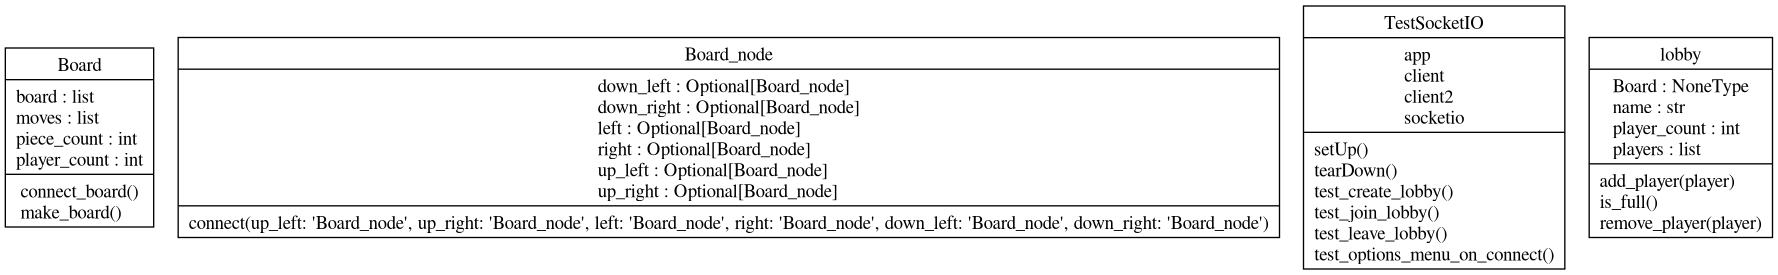
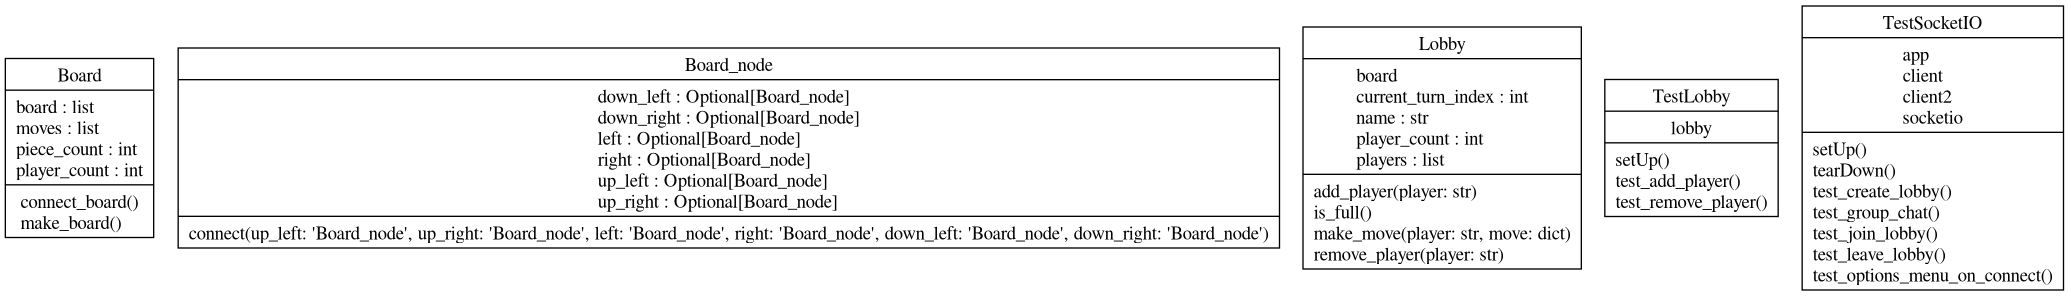
small file changes

Changed region(s): [[0.0, 0.0, 1.0, 0.9891]]

diff --git a/server/board.py b/server/board.py
@@ -1,17 +1,102 @@
-from abc import ABC, abstractmethod
+from math import floor, ceil
 
-#Interface for Board
-class Board(ABC):
-    @abstractmethod
-    def create_board(self, players_amount: int):
-        pass
+STANDARD_BOARD = [
+    1,
+    2,
+    3,
+    4,
+    13,
+    12,
+    11,
+    10,
+    9,
+    10,
+    11,
+    12,
+    13,
+    4,
+    3,
+    2,
+    1,
+]
 
-    @abstractmethod
-    def make_move(self, move: dict):
-        pass
+def mid_odd(number: int) -> int:
+    return floor(number/2)
 
-    @abstractmethod
-    def check_win(self):
-        pass
+def mid_left_even(number: int) -> int:
+    return floor(number/2)
+
+def mid_right_even(number: int) -> int:
+    return floor(number/2) + 1
+
+class Board_node():
+    def __init__(self):
+        self.up_left: Board_node = None
+        self.up_right: Board_node = None
+        self.left: Board_node = None
+        self.right: Board_node = None
+        self.down_left: Board_node = None
+        self.down_right: Board_node = None
+        return
+    
+    def connect(self, up_left: 'Board_node' = None,up_right: 'Board_node' = None,left: 'Board_node' = None,right: 'Board_node' = None,down_left: 'Board_node' = None,down_right: 'Board_node' = None):
+        if(up_left is not None):
+            self.up_left = up_left
+            self.up_left.down_right = self
+        if(up_right is not None):
+            self.up_right = up_right
+            self.up_right.down_left = self
+        if(left is not None):
+            self.left = left
+            self.left.right = self
+        if(right is not None):
+            self.right = right
+            self.right.left = right
+        if(down_left is not None):
+            self.down_left = down_left
+            self.down_left.up_right = self
+        if(down_right is not None):
+            self.down_right = down_right
+            self.down_right.up_left = self
+
+    def __str__(self):
+        return 'node'
+    
+    def __repr__(self):
+        return "####"
 
 
+
+class Board():
+    def __init__(self, player_count: int):
+        self.player_count = player_count
+        self.moves = []
+        if(self.player_count == 2):
+            self.piece_count = 15
+        elif(self.player_count > 2 and self.player_count <= 6):
+            self.piece_count = 10
+        return
+    
+    def make_board(self):
+        self.board = []
+        for row_count in STANDARD_BOARD:
+            place = 13 - floor(row_count / 2) - floor(13/2)
+            self.board.append([None] * place + [Board_node()] * row_count + [None] * place)
+        # for i in range(len(self.board)):
+        #     if i % 2 == 1:
+        #         print(' ',self.board[i])
+        #     else:
+        #         print(self.board[i])
+        # return
+
+    def connect_board(self):
+        for i in range(len(self.board)-1):
+            for j in range(len(self.board[i])):
+                if self.board[i][j] is None:
+                    continue
+                self.board[i][j].connect(down_left=self.board[i+1][j-1],down_right=self.board[i+1][j])
+    
+if(__name__ =='__main__'):
+    test = Board(2)
+    test.make_board()
+    test.connect_board()

diff --git a/server/lobby.py b/server/lobby.py
@@ -1,5 +1,5 @@
 from board import Board
-from starBoard import StarBoard
+from board import Board
 
 class Lobby:
     def __init__(self, lobby_name: str, needed_players: int):
@@ -7,7 +7,7 @@ class Lobby:
         self.players = []
         self.player_count = needed_players
         self.current_turn_index = 0
-        self.board: Board = StarBoard().create_board(needed_players)   # create a board object for x players; x=needed_players
+        self.board: Board = Board(needed_players)   # create a board object for x players; x=needed_players
 
     def add_player(self, player: str):
         if len(self.players) < self.player_count:
